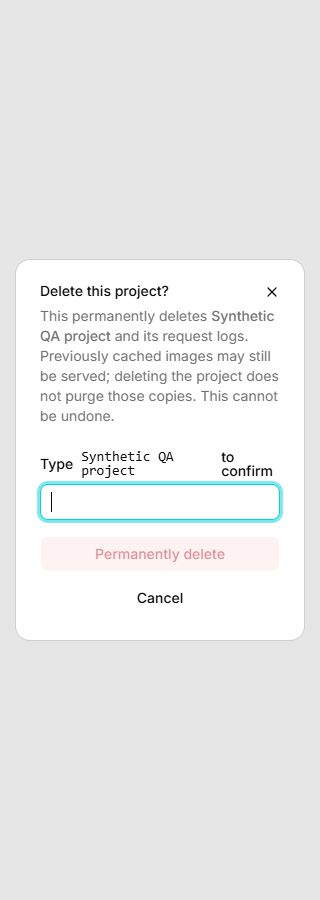
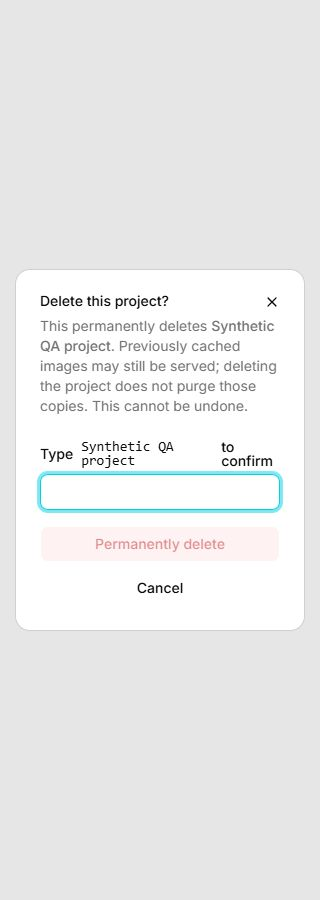
fix: remove broad request-log deletion claim

Changed region(s): [[0.0625, 0.28, 0.9375, 0.6222], [0.0625, 0.6533, 0.9375, 0.7156]]

diff --git a/apps/app/src/features/projects/project-general.tsx b/apps/app/src/features/projects/project-general.tsx
@@ -210,8 +210,8 @@ export function ProjectGeneral({
           <CardHeader>
             <CardTitle>Danger zone</CardTitle>
             <CardDescription>
-              Deleting a project removes its request logs and frees a plan
-              project slot. This cannot be undone.
+              Deleting a project frees a plan project slot. This cannot be
+              undone.
             </CardDescription>
           </CardHeader>
           <CardContent>
@@ -228,10 +228,9 @@ export function ProjectGeneral({
             <DialogTitle>Delete this project?</DialogTitle>
             <DialogDescription>
               This permanently deletes{' '}
-              <span className="font-medium">{project.name}</span> and its
-              request logs. Previously cached images may still be served;
-              deleting the project does not purge those copies. This cannot be
-              undone.
+              <span className="font-medium">{project.name}</span>. Previously
+              cached images may still be served; deleting the project does not
+              purge those copies. This cannot be undone.
             </DialogDescription>
           </DialogHeader>
           <form

diff --git a/docs/pr-evidence/project-delete-cache-copy/README.md b/docs/pr-evidence/project-delete-cache-copy/README.md
@@ -1,3 +1,3 @@
 # Project deletion cache copy
 
-These screenshots render the exact source-extracted project deletion dialog with the real shared components and stylesheet, using a synthetic project name. Captured in Chrome at 320x900 and 1440x900. Both were visually inspected; mobile dialog bounds were x16..304, y260..640 with no document overflow. This is local visual evidence, not a production deletion or cache-purge test. No interaction or motion changed, so a recording adds no meaningful evidence.
+These screenshots render the exact source-extracted project deletion dialog with the real shared components and stylesheet, using a synthetic project name. Captured in Chrome at 320x900 and 1440x900. Both were visually inspected; mobile dialog bounds were x16..304, y270..630 with no document overflow. This is local visual evidence, not a production deletion or cache-purge test. No interaction or motion changed, so a recording adds no meaningful evidence.
